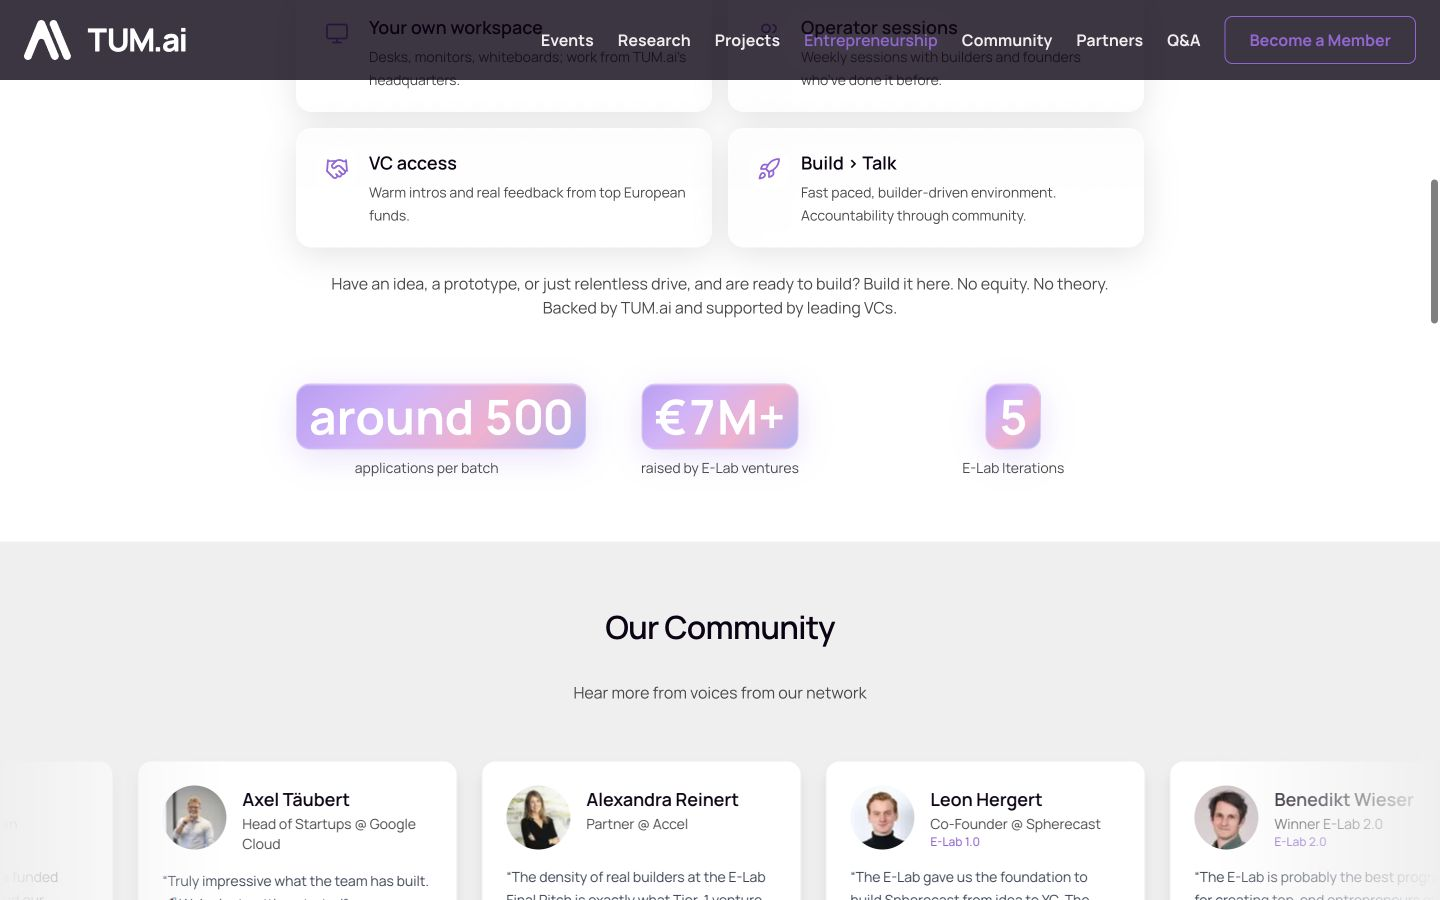
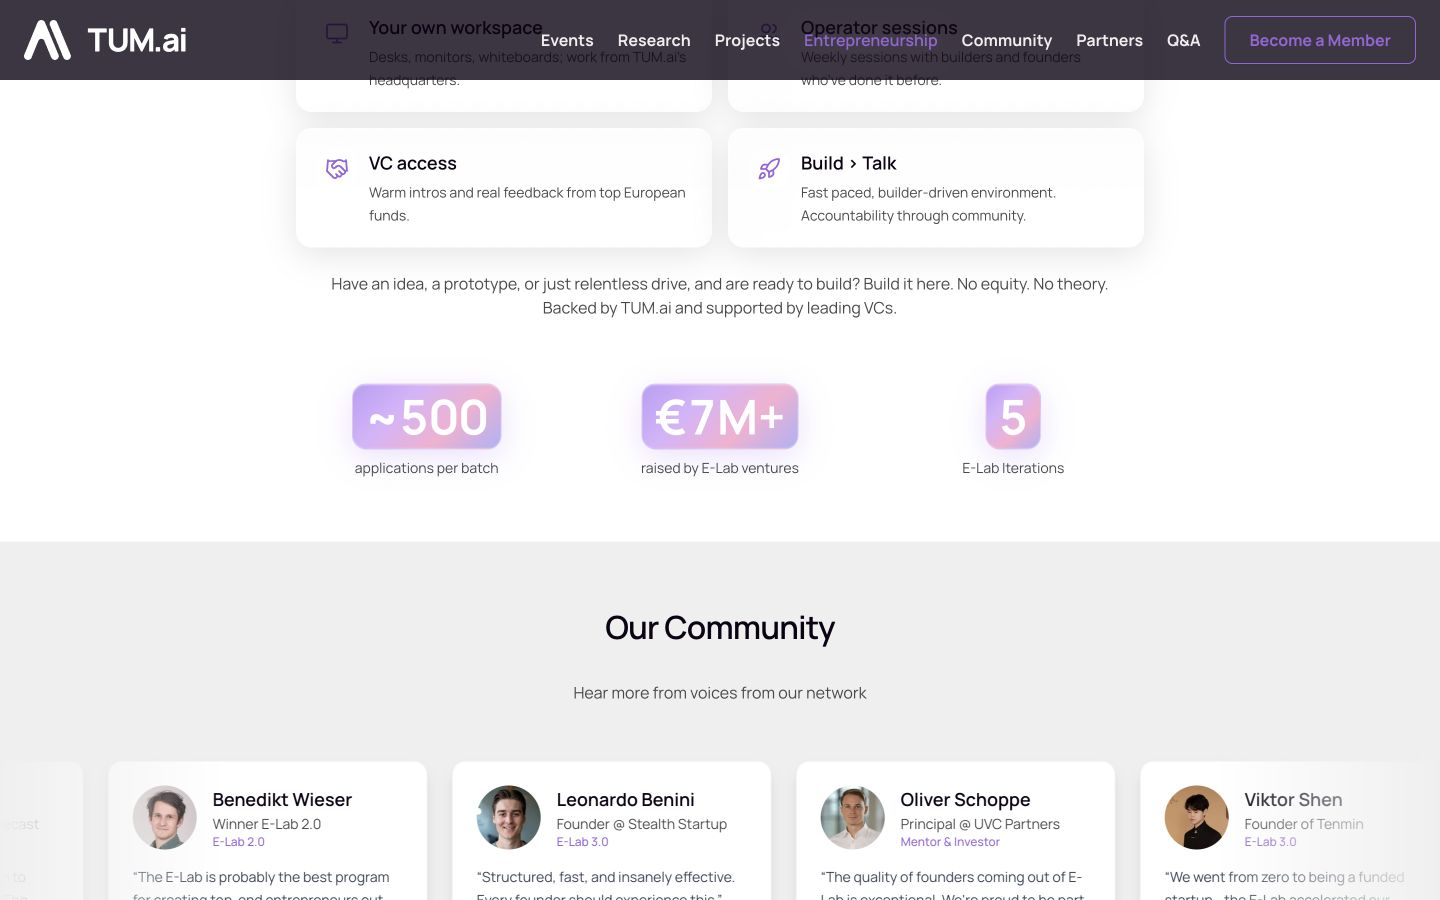
fix(e-lab): shorten applications metric

diff --git a/test/e-lab-content.test.ts b/test/e-lab-content.test.ts
@@ -37,7 +37,7 @@ test("E-Lab metrics match the approved proof points", () => {
       label,
     ]),
     [
-      ["around 500", "applications per batch"],
+      ["~500", "applications per batch"],
       ["€7M+", "raised by E-Lab ventures"],
       ["5", "E-Lab Iterations"],
     ],

diff --git a/src/data/e-lab/venture-page.ts b/src/data/e-lab/venture-page.ts
@@ -45,7 +45,7 @@ export const eLabMetrics = [
     label: "applications per batch",
     from: 0,
     to: 500,
-    prefix: "around ",
+    prefix: "~",
   },
   {
     id: "funding",
